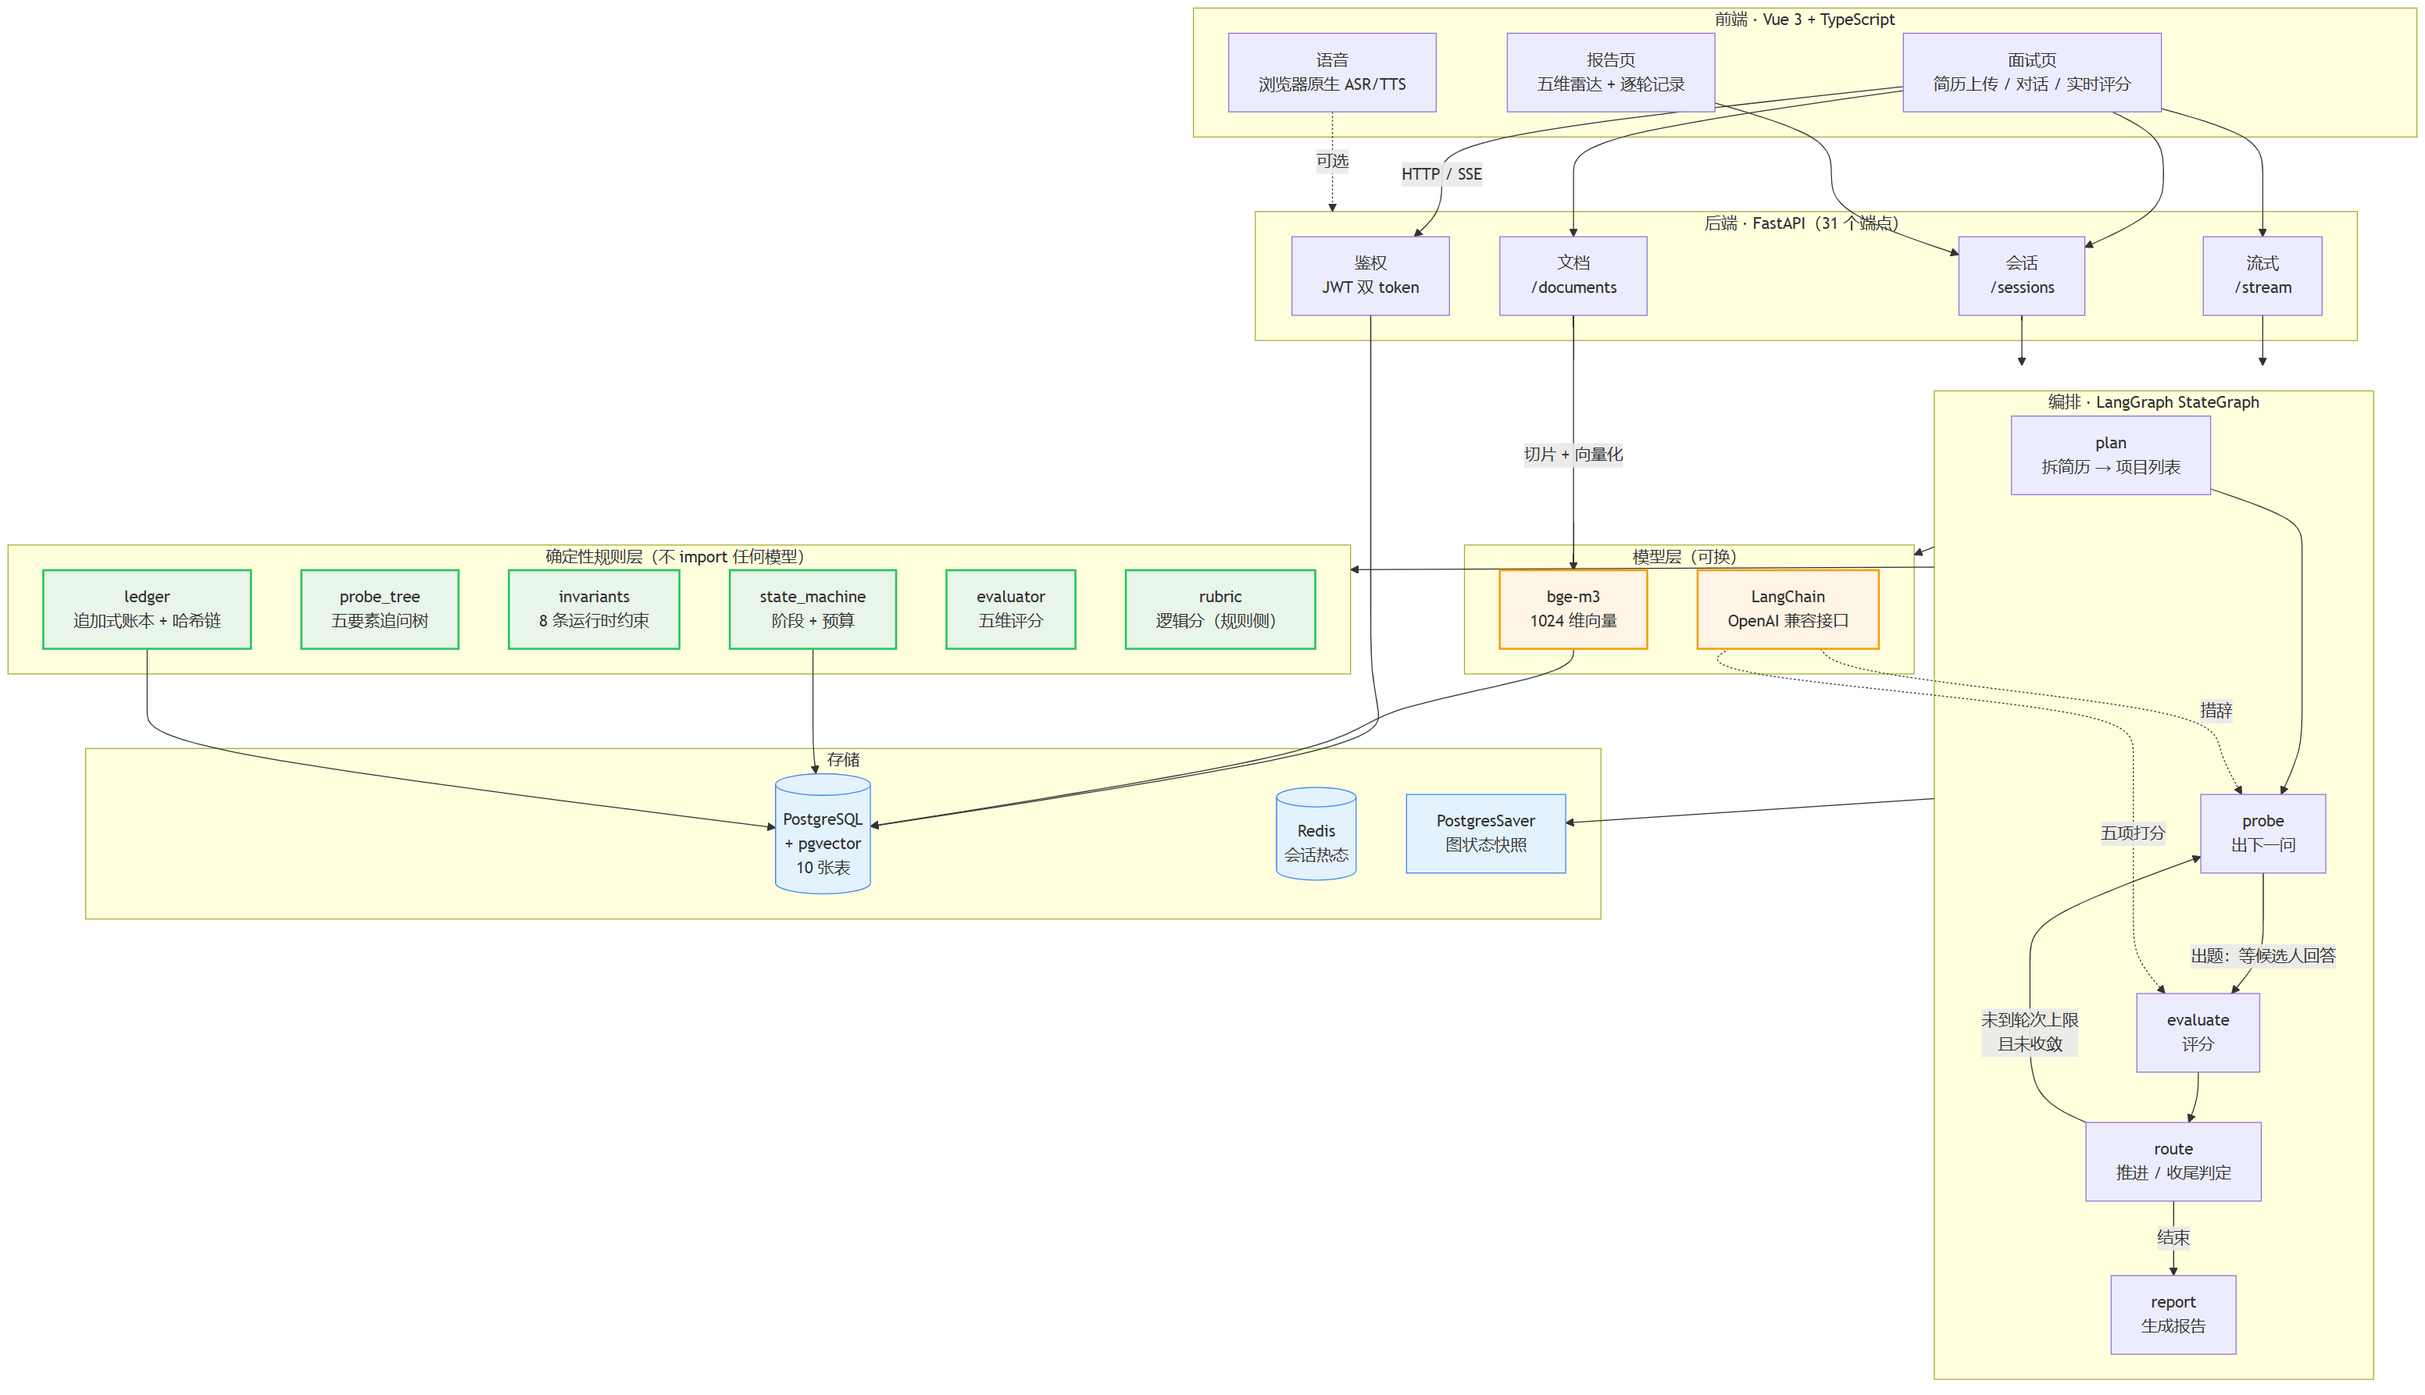
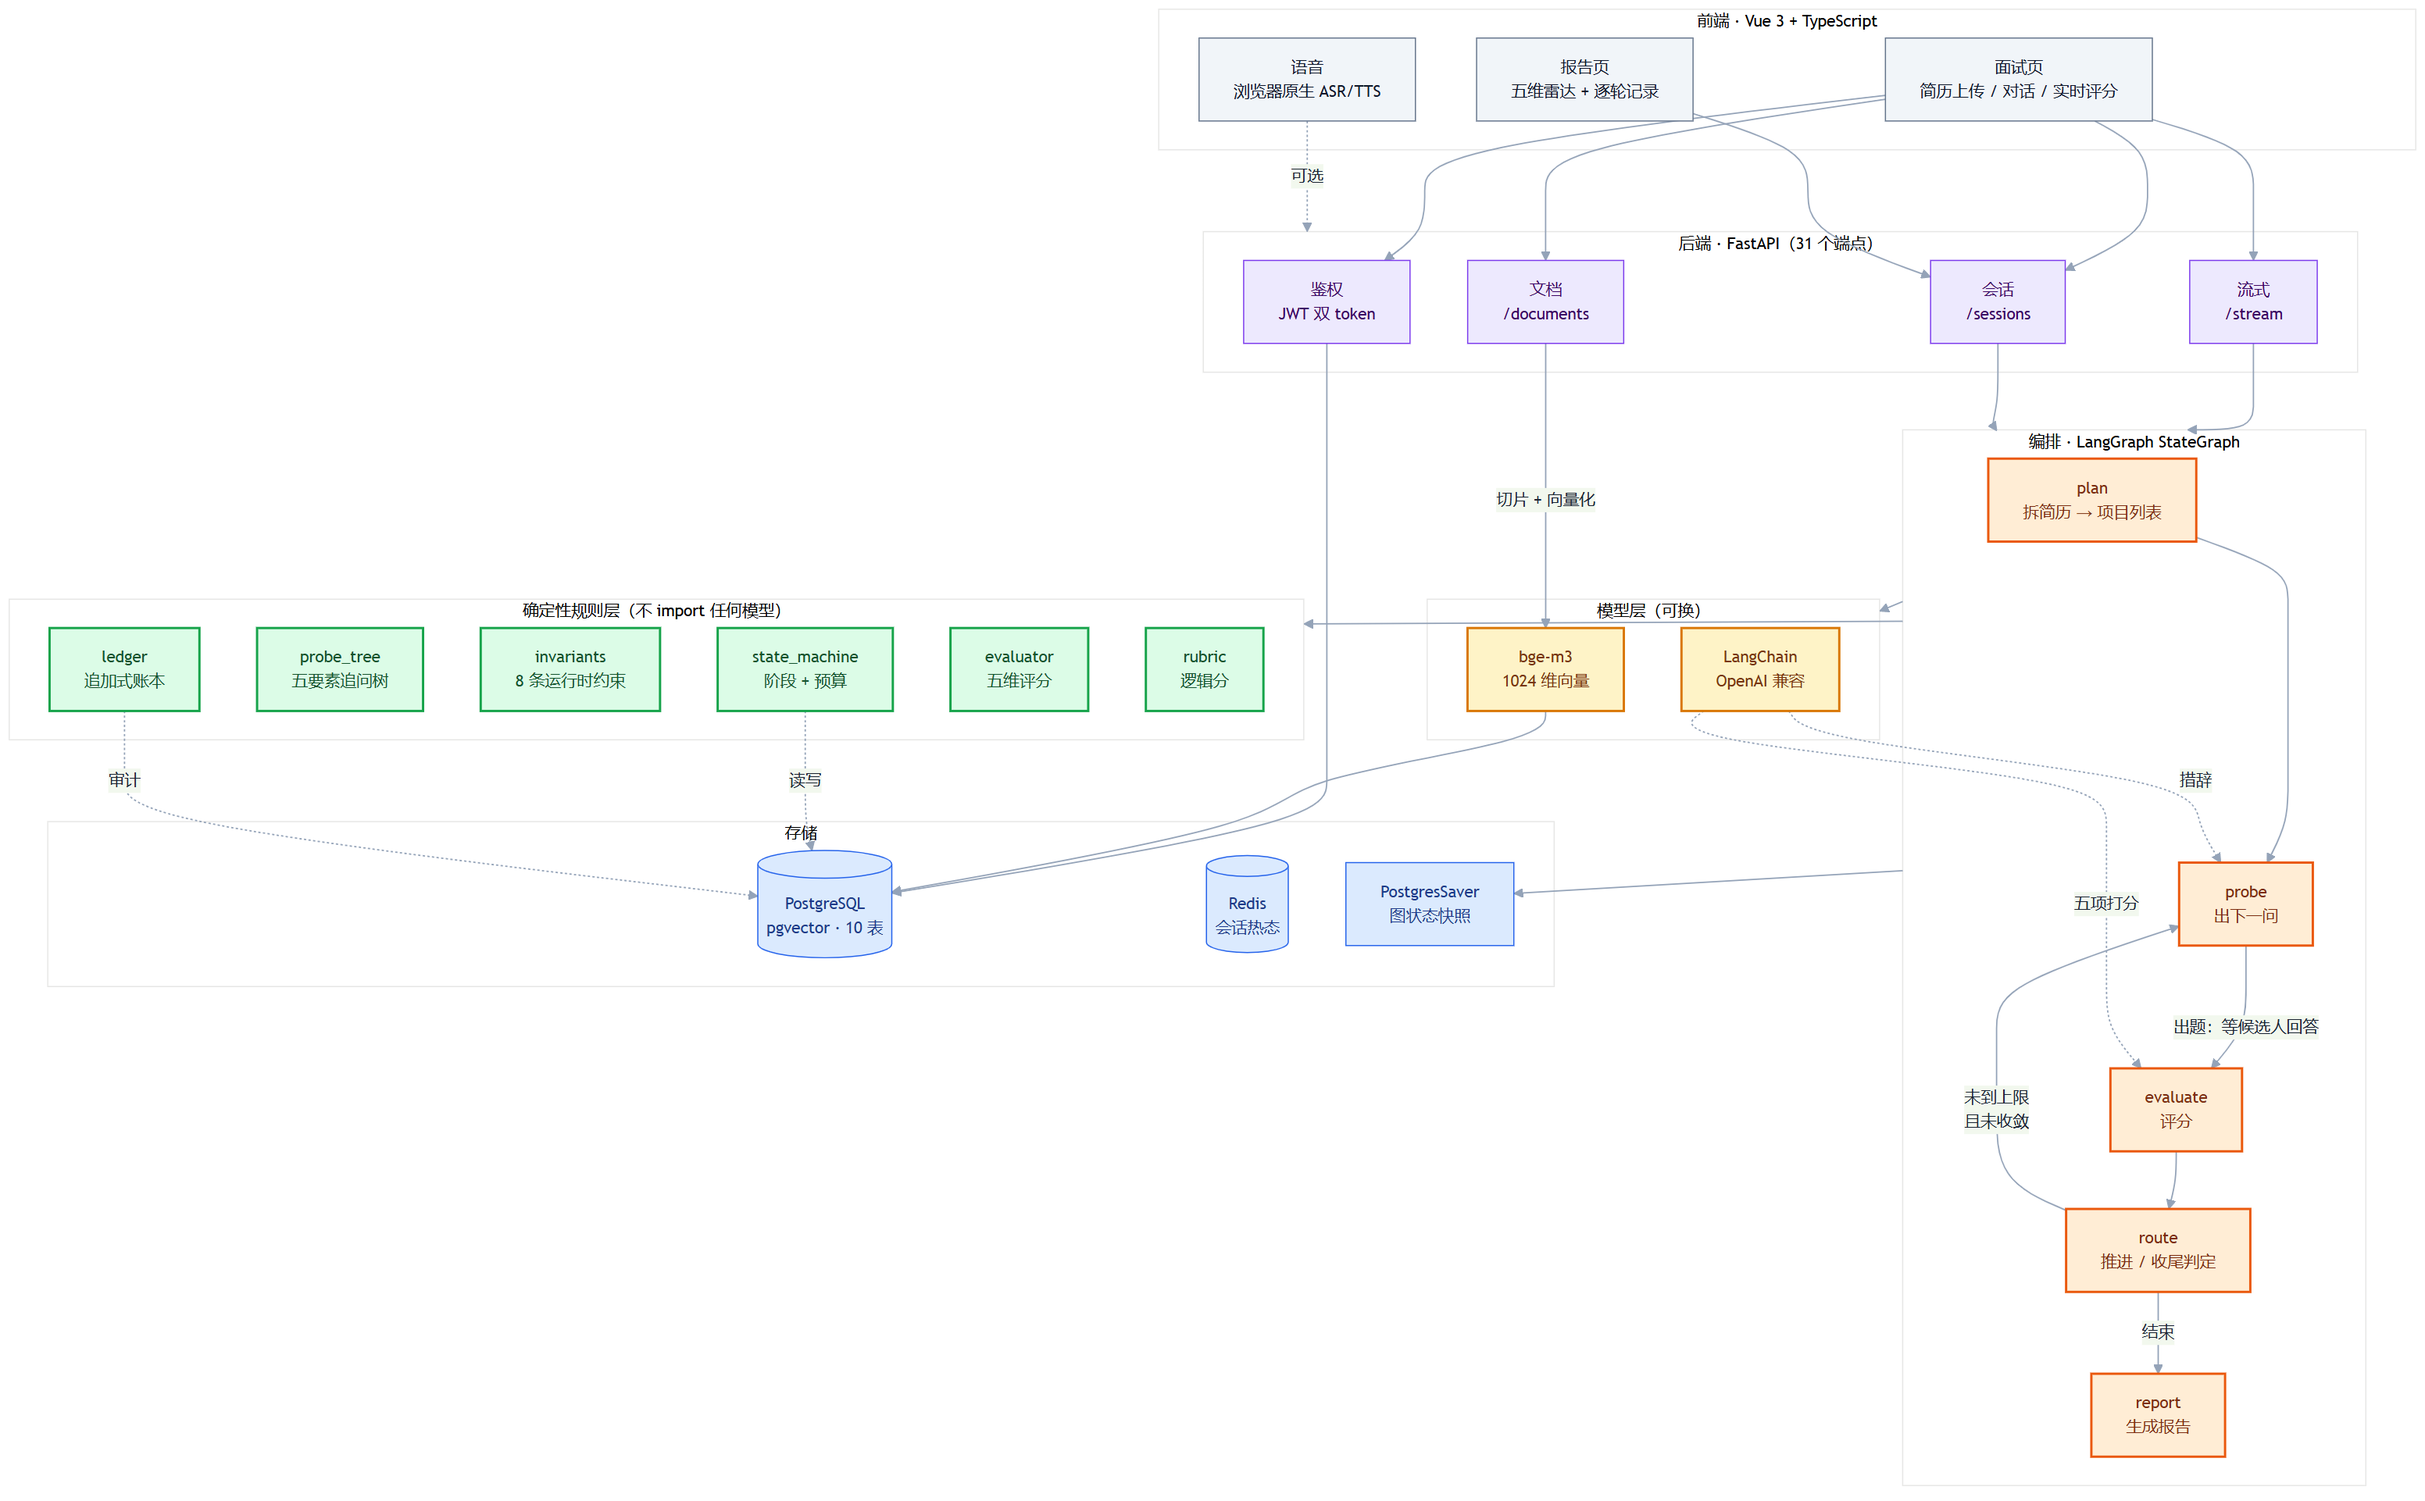
fix(docs): 架构图配色看不清 —— classDef 漏设 color
你指出"下面这点颜色不太对，看起来不太清"，查下来是真问题：

## 根因

6 个 classDef 全都只设了 fill 和 stroke，**一个 color 都没设**：

    classDef rules fill:#e8f5e9,stroke:#22c55e,stroke-width:2px
                                              ↑ 没有 color

在 GitHub 深色主题下，文字默认是浅色；浅绿底 + 浅色字 → 糊在一起。
浅色主题下勉强能看，所以之前没发现。

## 修法

不只是补 color，而是让图**自己掌底**：

1. 顶部加 init 指令锁 base 主题 + 白底 + 深色文字
2. 每个 classDef 显式写 color（深色系，配各自浅底）
3. 六个分组各自配色：前端灰 / 后端紫 / 编排橙 / 规则绿 / 模型黄 / 存储蓝

## 顺带修的两处

**① "存储"标签被连线压住**

ledger 和 state_machine 在图左边，PG 在中下方，实线要横跨整个画布，
正好压过 subgraph 标题。改成虚线（语义也更准：是"读写"和"审计"，
不是数据流主链路）。

**② classDef 用了保留字 graph**

    Parse error on line 82: ... got 'GRAPH'

graph 是 Mermaid 关键字，不能当 classDef 名字。改成 orch。

## 校验脚本也加强了

verify_mermaid.mjs 现在会检查：
- %%{init}%% 指令行不误判为"第一行不是图类型"（之前会误报）
- **每个 classDef 是否设了 color**（这次的坑）
- 大小括号配对时先剔除指令行（否则 {} 数量对不上）

以后同类问题会在本地就被拦下，不用等看图才发现。

diff --git a/frontend/.mermaid-preview.html b/frontend/.mermaid-preview.html
@@ -23,14 +23,28 @@
   window.__ready = true;
 </script>
 </head><body>
-<div class="mermaid" id="d0">flowchart TB
+<div class="mermaid" id="d0">%%{init: {
+  "theme": "base",
+  "themeVariables": {
+    "background": "#ffffff",
+    "primaryColor": "#eef2f8",
+    "primaryTextColor": "#1a2332",
+    "primaryBorderColor": "#94a3b8",
+    "lineColor": "#64748b",
+    "textColor": "#1a2332",
+    "fontSize": "14px"
+  }
+}}%%
+flowchart TB
     subgraph Client["前端 · Vue 3 + TypeScript"]
+        direction LR
         UI["面试页&lt;br/>简历上传 / 对话 / 实时评分"]
         Report["报告页&lt;br/>五维雷达 + 逐轮记录"]
         Speech["语音&lt;br/>浏览器原生 ASR/TTS"]
     end
 
     subgraph API["后端 · FastAPI（31 个端点）"]
+        direction LR
         Auth["鉴权&lt;br/>JWT 双 token"]
         Sess["会话&lt;br/>/sessions"]
         Doc["文档&lt;br/>/documents"]
@@ -47,58 +61,70 @@
     end
 
     subgraph Rules["确定性规则层（不 import 任何模型）"]
+        direction LR
         SM["state_machine&lt;br/>阶段 + 预算"]
         PT["probe_tree&lt;br/>五要素追问树"]
         INV["invariants&lt;br/>8 条运行时约束"]
-        LG["ledger&lt;br/>追加式账本 + 哈希链"]
+        LG["ledger&lt;br/>追加式账本"]
         EV["evaluator&lt;br/>五维评分"]
-        RB["rubric&lt;br/>逻辑分（规则侧）"]
+        RB["rubric&lt;br/>逻辑分"]
     end
 
     subgraph Model["模型层（可换）"]
-        LLM["LangChain&lt;br/>OpenAI 兼容接口"]
+        direction LR
+        LLM["LangChain&lt;br/>OpenAI 兼容"]
         Embed["bge-m3&lt;br/>1024 维向量"]
     end
 
     subgraph Store["存储"]
-        PG[("PostgreSQL&lt;br/>+ pgvector&lt;br/>10 张表")]
+        direction LR
+        PG[("PostgreSQL&lt;br/>pgvector · 10 表")]
         RD[("Redis&lt;br/>会话热态")]
         CKPT["PostgresSaver&lt;br/>图状态快照"]
     end
 
-    UI -->|"HTTP / SSE"| Auth
+    UI --> Auth
     UI --> Sess
     UI --> Doc
     UI --> SSE
     Report --> Sess
-    Speech -.->|"可选"| API
+    Speech -.->|可选| API
 
     Auth --> PG
-    Doc -->|"切片 + 向量化"| Embed
+    Doc -->|切片 + 向量化| Embed
     Embed --> PG
     SSE --> Graph
-
     Sess --> Graph
-    Graph --> Rules
-    Graph --> Model
-    Graph --> CKPT
 
     Plan --> Probe
     Probe -->|"出题：等候选人回答"| Eval
     Eval --> Route
-    Route -->|"未到轮次上限&lt;br/>且未收敛"| Probe
+    Route -->|"未到上限&lt;br/>且未收敛"| Probe
     Route -->|"结束"| Rep
 
-    SM --> PG
-    LG --> PG
+    SM -.->|读写| PG
+    LG -.->|审计| PG
+    Graph --> CKPT
 
     LLM -.->|"措辞"| Probe
     LLM -.->|"五项打分"| Eval
+    Graph --> Rules
+    Graph --> Model
 
-    classDef model fill:#fff4e6,stroke:#f59e0b,stroke-width:2px
-    classDef rules fill:#e8f5e9,stroke:#22c55e,stroke-width:2px
-    classDef store fill:#e3f2fd,stroke:#3b82f6,stroke-width:1px
+    %% 淡化底层的次要连线（存储/快照），让主链路（出题→评分→推进）更突出
+    linkStyle default stroke:#94a3b8,stroke-width:1.2px
+
+    classDef model fill:#fef3c7,stroke:#d97706,stroke-width:2px,color:#78350f
+    classDef rules fill:#dcfce7,stroke:#16a34a,stroke-width:2px,color:#14532d
+    classDef store fill:#dbeafe,stroke:#2563eb,stroke-width:1px,color:#1e3a8a
+    classDef client fill:#f1f5f9,stroke:#64748b,stroke-width:1px,color:#0f172a
+    classDef api fill:#ede9fe,stroke:#7c3aed,stroke-width:1px,color:#3b0764
+    classDef orch fill:#ffedd5,stroke:#ea580c,stroke-width:2px,color:#7c2d12
+
     class LLM,Embed model
     class SM,PT,INV,LG,EV,RB rules
-    class PG,RD,CKPT store</div>
+    class PG,RD,CKPT store
+    class UI,Report,Speech client
+    class Auth,Sess,Doc,SSE api
+    class Plan,Probe,Eval,Route,Rep orch</div>
 </body></html>

diff --git a/README.md b/README.md
@@ -146,14 +146,28 @@ refresh 7 天在 HttpOnly Cookie（JS 读不到）。
 > 下面还有 Mermaid 版本（GitHub 上会渲染成可交互的图）。
 
 ```mermaid
+%%{init: {
+  "theme": "base",
+  "themeVariables": {
+    "background": "#ffffff",
+    "primaryColor": "#eef2f8",
+    "primaryTextColor": "#1a2332",
+    "primaryBorderColor": "#94a3b8",
+    "lineColor": "#64748b",
+    "textColor": "#1a2332",
+    "fontSize": "14px"
+  }
+}}%%
 flowchart TB
     subgraph Client["前端 · Vue 3 + TypeScript"]
+        direction LR
         UI["面试页<br/>简历上传 / 对话 / 实时评分"]
         Report["报告页<br/>五维雷达 + 逐轮记录"]
         Speech["语音<br/>浏览器原生 ASR/TTS"]
     end
 
     subgraph API["后端 · FastAPI（31 个端点）"]
+        direction LR
         Auth["鉴权<br/>JWT 双 token"]
         Sess["会话<br/>/sessions"]
         Doc["文档<br/>/documents"]
@@ -170,60 +184,72 @@ flowchart TB
     end
 
     subgraph Rules["确定性规则层（不 import 任何模型）"]
+        direction LR
         SM["state_machine<br/>阶段 + 预算"]
         PT["probe_tree<br/>五要素追问树"]
         INV["invariants<br/>8 条运行时约束"]
-        LG["ledger<br/>追加式账本 + 哈希链"]
+        LG["ledger<br/>追加式账本"]
         EV["evaluator<br/>五维评分"]
-        RB["rubric<br/>逻辑分（规则侧）"]
+        RB["rubric<br/>逻辑分"]
     end
 
     subgraph Model["模型层（可换）"]
-        LLM["LangChain<br/>OpenAI 兼容接口"]
+        direction LR
+        LLM["LangChain<br/>OpenAI 兼容"]
         Embed["bge-m3<br/>1024 维向量"]
     end
 
     subgraph Store["存储"]
-        PG[("PostgreSQL<br/>+ pgvector<br/>10 张表")]
+        direction LR
+        PG[("PostgreSQL<br/>pgvector · 10 表")]
         RD[("Redis<br/>会话热态")]
         CKPT["PostgresSaver<br/>图状态快照"]
     end
 
-    UI -->|"HTTP / SSE"| Auth
+    UI --> Auth
     UI --> Sess
     UI --> Doc
     UI --> SSE
     Report --> Sess
-    Speech -.->|"可选"| API
+    Speech -.->|可选| API
 
     Auth --> PG
-    Doc -->|"切片 + 向量化"| Embed
+    Doc -->|切片 + 向量化| Embed
     Embed --> PG
     SSE --> Graph
-
     Sess --> Graph
-    Graph --> Rules
-    Graph --> Model
-    Graph --> CKPT
 
     Plan --> Probe
     Probe -->|"出题：等候选人回答"| Eval
     Eval --> Route
-    Route -->|"未到轮次上限<br/>且未收敛"| Probe
+    Route -->|"未到上限<br/>且未收敛"| Probe
     Route -->|"结束"| Rep
 
-    SM --> PG
-    LG --> PG
+    SM -.->|读写| PG
+    LG -.->|审计| PG
+    Graph --> CKPT
 
     LLM -.->|"措辞"| Probe
     LLM -.->|"五项打分"| Eval
+    Graph --> Rules
+    Graph --> Model
 
-    classDef model fill:#fff4e6,stroke:#f59e0b,stroke-width:2px
-    classDef rules fill:#e8f5e9,stroke:#22c55e,stroke-width:2px
-    classDef store fill:#e3f2fd,stroke:#3b82f6,stroke-width:1px
+    %% 淡化底层的次要连线（存储/快照），让主链路（出题→评分→推进）更突出
+    linkStyle default stroke:#94a3b8,stroke-width:1.2px
+
+    classDef model fill:#fef3c7,stroke:#d97706,stroke-width:2px,color:#78350f
+    classDef rules fill:#dcfce7,stroke:#16a34a,stroke-width:2px,color:#14532d
+    classDef store fill:#dbeafe,stroke:#2563eb,stroke-width:1px,color:#1e3a8a
+    classDef client fill:#f1f5f9,stroke:#64748b,stroke-width:1px,color:#0f172a
+    classDef api fill:#ede9fe,stroke:#7c3aed,stroke-width:1px,color:#3b0764
+    classDef orch fill:#ffedd5,stroke:#ea580c,stroke-width:2px,color:#7c2d12
+
     class LLM,Embed model
     class SM,PT,INV,LG,EV,RB rules
     class PG,RD,CKPT store
+    class UI,Report,Speech client
+    class Auth,Sess,Doc,SSE api
+    class Plan,Probe,Eval,Route,Rep orch
 ```
 
 **看图要点**：
